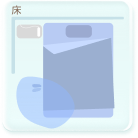
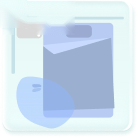
空间卡名称/徽章改代码分层渲染（随褪色同步变灰，徽章照设计稿小胶囊）；点亮提示条照稿改橙色调且整条可点；B支线选择整理方式卡改紧凑排版防溢出；加 ?relight= 演示跳转参数；茶几/床图 alpha 通道文字洞修补

Changed region(s): [[0.087, 0.029, 0.5217, 0.2029], [0.2609, 0.2029, 0.2899, 0.2609]]

diff --git a/WebDemo/src/app/components/SpatialScreen.tsx b/WebDemo/src/app/components/SpatialScreen.tsx
@@ -1,6 +1,6 @@
 import { useRef, useState, useEffect } from "react";
 import { motion, AnimatePresence } from "motion/react";
-import { Plus, Sparkles, X, RotateCw, Pencil, ChevronRight, Play, Check, Camera, Trash2 } from "lucide-react";
+import { Plus, Sparkles, X, RotateCw, Pencil, ChevronRight, Play, Check, Camera, TriangleAlert } from "lucide-react";
 import { COFFEE, ORANGE, LINEN, BLUE, WHITE, SOFT } from "./theme";
 import { InProgressDetail } from "./InProgressDetail";
 import { nativeRequest, type NativeSpace } from "../nativeBridge";
@@ -245,7 +245,7 @@ function SpaceTile({
               filter: `saturate(${1 - 0.72 * f}) grayscale(${0.5 * f}) opacity(${1 - f * 0.35})`,
             }}
           />
-          {/* 名称已烤在插画里；这里只叠加「N天未维护」徽章（左上，同设计稿） */}
+          {/* 名称 + 徽章：代码层渲染（插画里不烤字），跟图标同一套 fade 节奏分层 */}
           <div
             className="absolute flex items-center"
             style={{
@@ -253,30 +253,40 @@ function SpaceTile({
               top: 6 * Math.min(piece.scale, 1.15),
               gap: 5,
               maxWidth: w - 14,
+              // 与插画 filter opacity 同步，字跟着图一起变淡
+              opacity: 1 - f * 0.35,
             }}
           >
+            <span
+              style={{
+                color: mix("#4A3B2A", "#9A9086", f),
+                fontSize: 13 * Math.min(piece.scale, 1.15),
+                fontWeight: 700,
+                letterSpacing: "0.02em",
+                whiteSpace: "nowrap",
+                overflow: "hidden",
+                textOverflow: "ellipsis",
+                textShadow: "0 1px 2px rgba(255,255,255,0.4)",
+              }}
+            >
+              {piece.name}
+            </span>
             {piece.lastDays >= 14 && (
               <span
                 className="flex items-center"
                 style={{
                   gap: 3,
-                  backgroundColor: "rgba(255,255,255,0.94)",
+                  backgroundColor: rgba("#E08A3C", 0.16 - 0.06 * f),
                   borderRadius: 999,
                   padding: `${2.5 * piece.scale}px ${6 * piece.scale}px`,
-                  boxShadow: "0 1px 4px rgba(90,70,55,0.12)",
                   fontSize: 10.5 * Math.min(piece.scale, 1.15),
                   fontWeight: 600,
-                  color: mix("#E08A3C", "#B0A89D", f),
+                  color: mix("#D96A3C", "#B0A89D", f),
                   whiteSpace: "nowrap",
                   flexShrink: 0,
                 }}
               >
-                <span
-                  className="flex items-center justify-center rounded-full"
-                  style={{ width: 13, height: 13, backgroundColor: "#E8A13C", flexShrink: 0 }}
-                >
-                  <Trash2 size={8} color={WHITE} strokeWidth={2.4} />
-                </span>
+                <TriangleAlert size={9} color={mix("#D96A3C", "#B0A89D", f)} strokeWidth={2.4} />
                 {piece.lastDays}天未维护
               </span>
             )}
@@ -798,34 +808,19 @@ export function SpatialScreen({
               </div>
 
               {current.lastDays >= 14 && (
-                <div className="mt-4 p-3.5 flex items-center gap-3" style={{ backgroundColor: "#F4EDE4", borderRadius: 18 }}>
-                  <div className="relative flex-shrink-0">
-                    {/* Pulse ring to draw attention */}
-                    <motion.div
-                      className="absolute inset-0 rounded-full"
-                      style={{ backgroundColor: ORANGE }}
-                      animate={{ scale: [1, 1.55], opacity: [0.35, 0] }}
-                      transition={{ duration: 1.4, repeat: Infinity, ease: "easeOut" }}
-                    />
-                    <motion.button
-                      whileTap={{ scale: 0.88 }}
-                      transition={{ type: "spring", stiffness: 440, damping: 22 }}
-                      onClick={handleRelight}
-                      className="relative h-9 w-9 rounded-full flex items-center justify-center"
-                      style={{
-                        backgroundColor: ORANGE,
-                        boxShadow: "0 4px 14px rgba(250,136,58,0.42)",
-                        border: "none",
-                        cursor: "pointer",
-                      }}
-                    >
-                      <Sparkles size={15} color={WHITE} />
-                    </motion.button>
+                <motion.button
+                  whileTap={{ scale: 0.985 }}
+                  onClick={handleRelight}
+                  className="mt-4 p-3.5 flex items-center gap-3 text-left w-full"
+                  style={{ backgroundColor: "#FBEBDB", borderRadius: 18, border: "none", cursor: "pointer" }}
+                >
+                  <div className="h-9 w-9 rounded-full flex items-center justify-center flex-shrink-0" style={{ backgroundColor: ORANGE }}>
+                    <Sparkles size={15} color={WHITE} />
                   </div>
-                  <p style={{ color: COFFEE, opacity: 0.7, fontSize: 12.5, flex: 1 }}>
-                    这块空间的颜色已经变淡了——{current.lastDays} 天没照顾它,回去点亮它吧。
+                  <p style={{ color: "#8A5A34", fontSize: 12.5, flex: 1, lineHeight: 1.5 }}>
+                    这块空间的颜色已经变淡了——{current.lastDays} 天没照顾它，回去点亮它吧。
                   </p>
-                </div>
+                </motion.button>
               )}
 
               <p style={{ color: COFFEE, opacity: 0.5, fontSize: 12, fontWeight: 600, marginTop: 20, marginBottom: 10 }}>整理记录</p>

diff --git a/WebDemo/src/app/components/ShootFlow.tsx b/WebDemo/src/app/components/ShootFlow.tsx
@@ -6247,7 +6247,7 @@ function RelightChoiceStep({
           transition={{ type: "spring", stiffness: 400, damping: 28 }}
           onClick={onTune}
           style={{
-            flex: 1, borderRadius: 26, overflow: "hidden",
+            flexShrink: 0, borderRadius: 26, overflow: "hidden",
             position: "relative", border: "none", cursor: "pointer",
             backgroundColor: spaceVivid, textAlign: "left",
           }}
@@ -6275,7 +6275,7 @@ function RelightChoiceStep({
           transition={{ type: "spring", stiffness: 400, damping: 28 }}
           onClick={onNew}
           style={{
-            flex: 1, borderRadius: 26, overflow: "hidden",
+            flexShrink: 0, borderRadius: 26, overflow: "hidden",
             position: "relative", border: `2px solid ${SOFT}`,
             cursor: "pointer", backgroundColor: WHITE, textAlign: "left",
           }}
@@ -6648,7 +6648,13 @@ type RelightStep =
   | "complete";
 
 export function RelightFlow({ spaceId, spaceName, spaceVivid, onClose, onComplete }: RelightFlowProps) {
-  const [step, setStep] = useState<RelightStep>("capture");
+  // dev/演示：?relight=choice|tune|proof|complete 可直接跳到对应屏（不带参数走正常流程）
+  const [step, setStep] = useState<RelightStep>(() => {
+    const s = typeof location !== "undefined" ? new URLSearchParams(location.search).get("relight") : null;
+    return (["choice", "tune", "proof", "complete"] as RelightStep[]).includes(s as RelightStep)
+      ? (s as RelightStep)
+      : "capture";
+  });
   const [chosen, setChosen] = useState<GenPlan>(GEN_PLANS[0]);
   const [relightMode, setRelightMode] = useState<"tune" | "new">("tune");
 

diff --git a/WebDemo/src/app/App.tsx b/WebDemo/src/app/App.tsx
@@ -16,6 +16,12 @@ export default function App() {
   const [nativeState, setNativeState] = useState<NativeState | null>(null);
   const refresh = () => getNativeState().then(setNativeState).catch(() => undefined);
 
+  // dev/演示：?relight=choice|tune|proof|complete 直接挂载点亮链路（不带参数不影响正常流程）
+  useEffect(() => {
+    const s = new URLSearchParams(location.search).get("relight");
+    if (s) setRelightSpace({ id: "p3", name: "厨房", vivid: "#A9B486" });
+  }, []);
+
   // 相机在 App 前台期间一直跑着（画面层已铺好、只是透明不可见），
   // 这里只剩"把画面显示出来"一步，不等硬件、不建图层 —— 点下去就是相机。
   const openShoot = () => {
